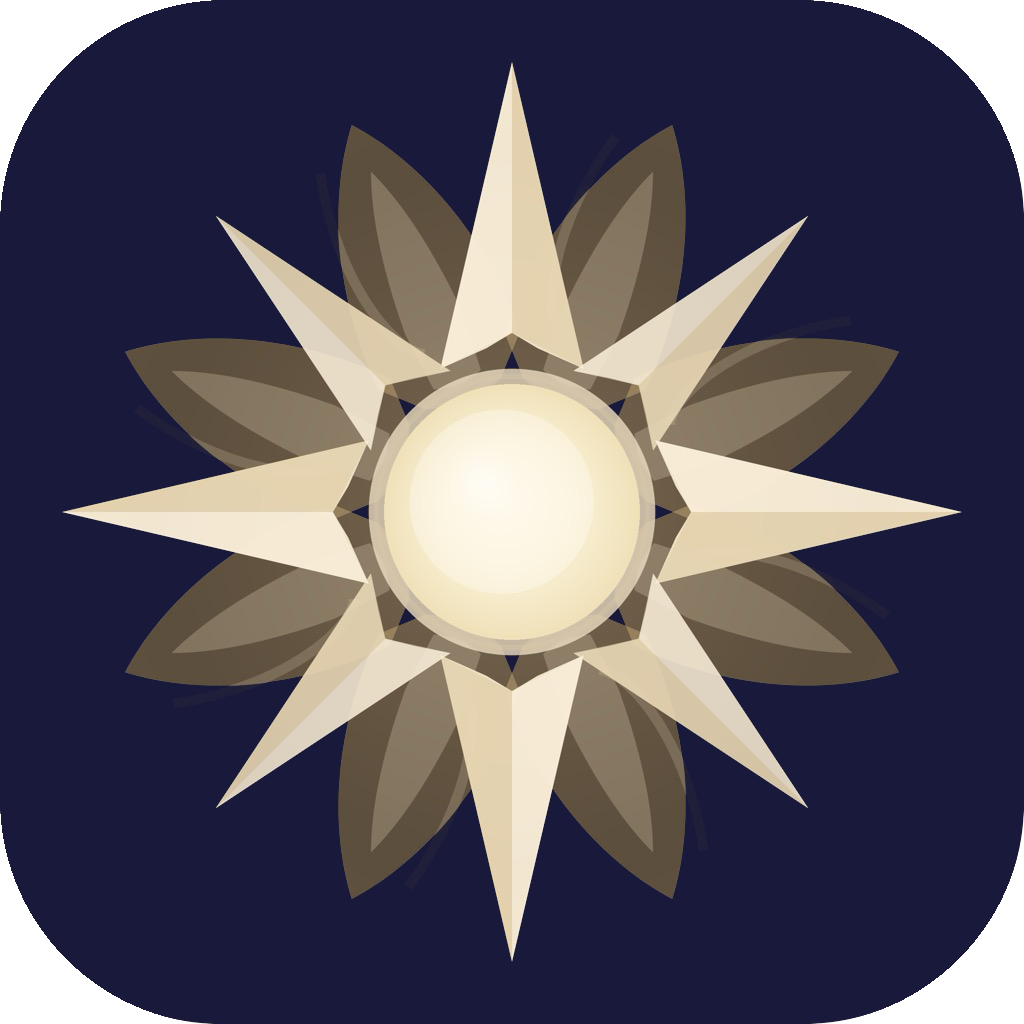
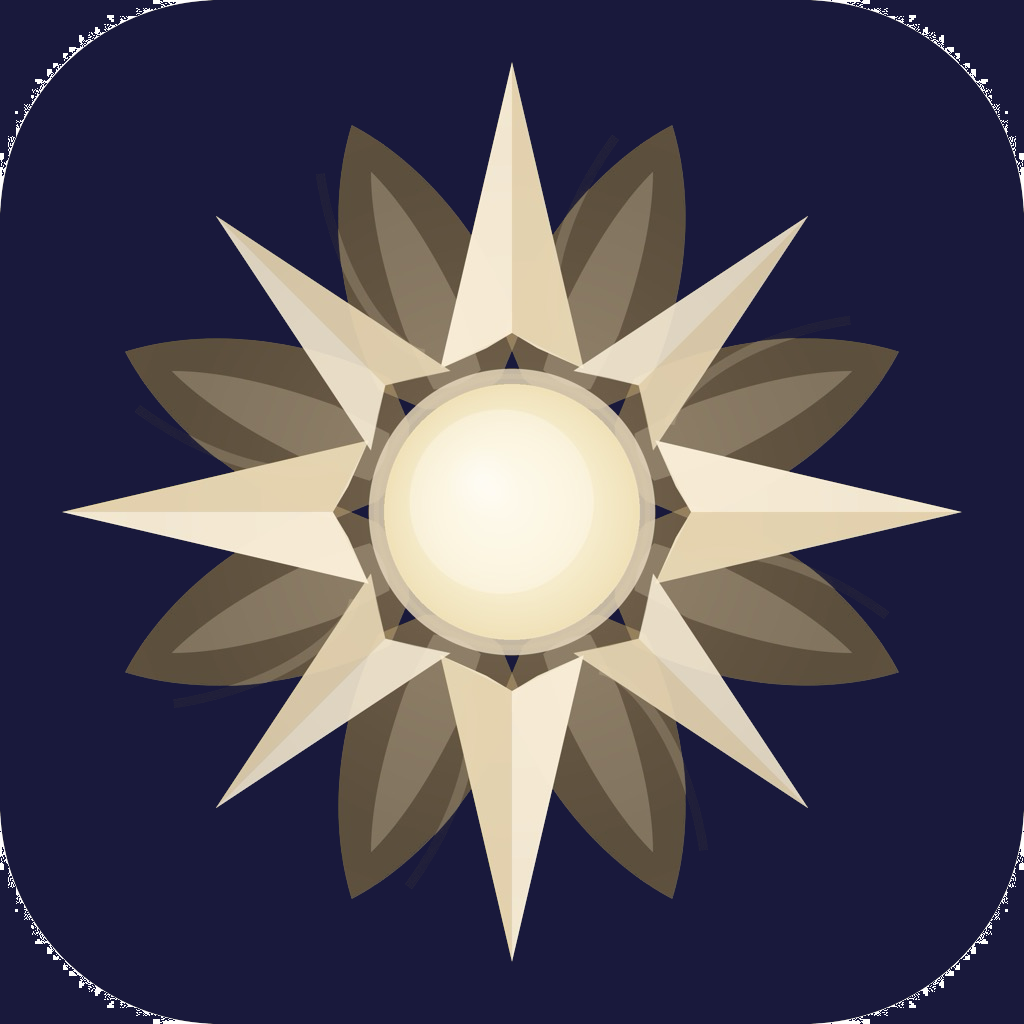
Fix Starr AI social card on X / Open Graph
- Replace white corners in icon_1024x1024.png with navy (#19193C)
  matching the icon background. iOS still applies its rounded mask
  at runtime so in-app appearance is unchanged, but raw scrapes no
  longer show white triangles around the icon.
- Add og-card.png (1200x628) — proper landscape social card with
  the icon centered on a navy background plus title and tagline.
- Switch twitter:card from "summary" to "summary_large_image" and
  point og:image / twitter:image at the new card.

diff --git a/starr-ai/index.html b/starr-ai/index.html
@@ -10,13 +10,17 @@
 <meta name="description" content="Simple AI that lives on your iPhone. Get quick answers, translations, and help anytime — even offline. Just raise your wrist and ask. Easy for everyone.">
 <meta property="og:title" content="Starr AI — Your Own AI on iPhone & Apple Watch">
 <meta property="og:description" content="Simple AI that lives on your iPhone. Get quick answers, translations, and help anytime — even offline. Just raise your wrist and ask. Easy for everyone.">
-<meta property="og:image" content="https://q-starr.app/starr-ai/icon_1024x1024.png">
+<meta property="og:image" content="https://q-starr.app/starr-ai/og-card.png">
+<meta property="og:image:width" content="1200">
+<meta property="og:image:height" content="628">
 <meta property="og:url" content="https://q-starr.app/starr-ai">
 <meta property="og:type" content="website">
-<meta name="twitter:card" content="summary">
+<meta property="og:site_name" content="Starr AI">
+<meta name="twitter:card" content="summary_large_image">
+<meta name="twitter:site" content="@QStarrCo">
 <meta name="twitter:title" content="Starr AI — Your Own AI on iPhone & Apple Watch">
 <meta name="twitter:description" content="Simple AI that lives on your iPhone. Get quick answers, translations, and help anytime — even offline. Just raise your wrist and ask. Easy for everyone.">
-<meta name="twitter:image" content="https://q-starr.app/starr-ai/icon_1024x1024.png">
+<meta name="twitter:image" content="https://q-starr.app/starr-ai/og-card.png">
 <style>
 @font-face{font-family:'DM Sans';font-style:normal;font-weight:300;font-display:swap;src:url(/fonts/dm-sans.woff2) format('woff2')}
 @font-face{font-family:'DM Sans';font-style:normal;font-weight:400;font-display:swap;src:url(/fonts/dm-sans.woff2) format('woff2')}
